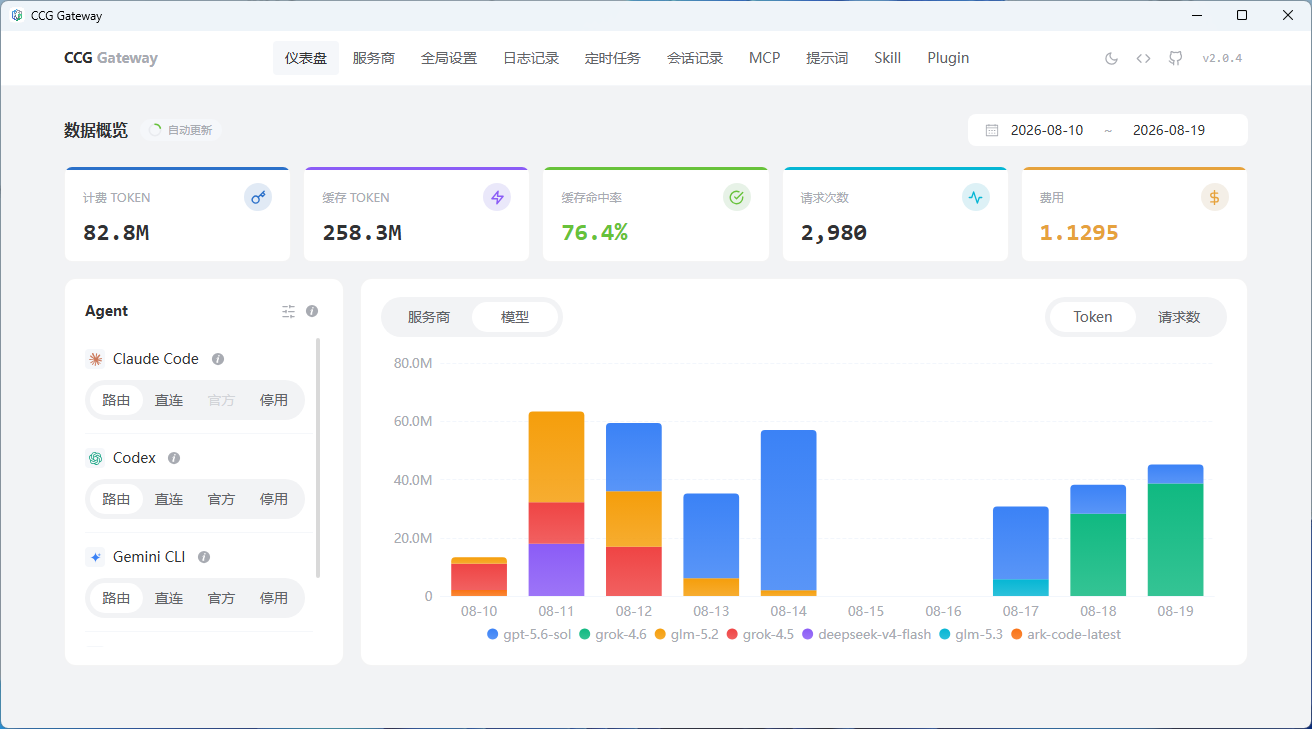
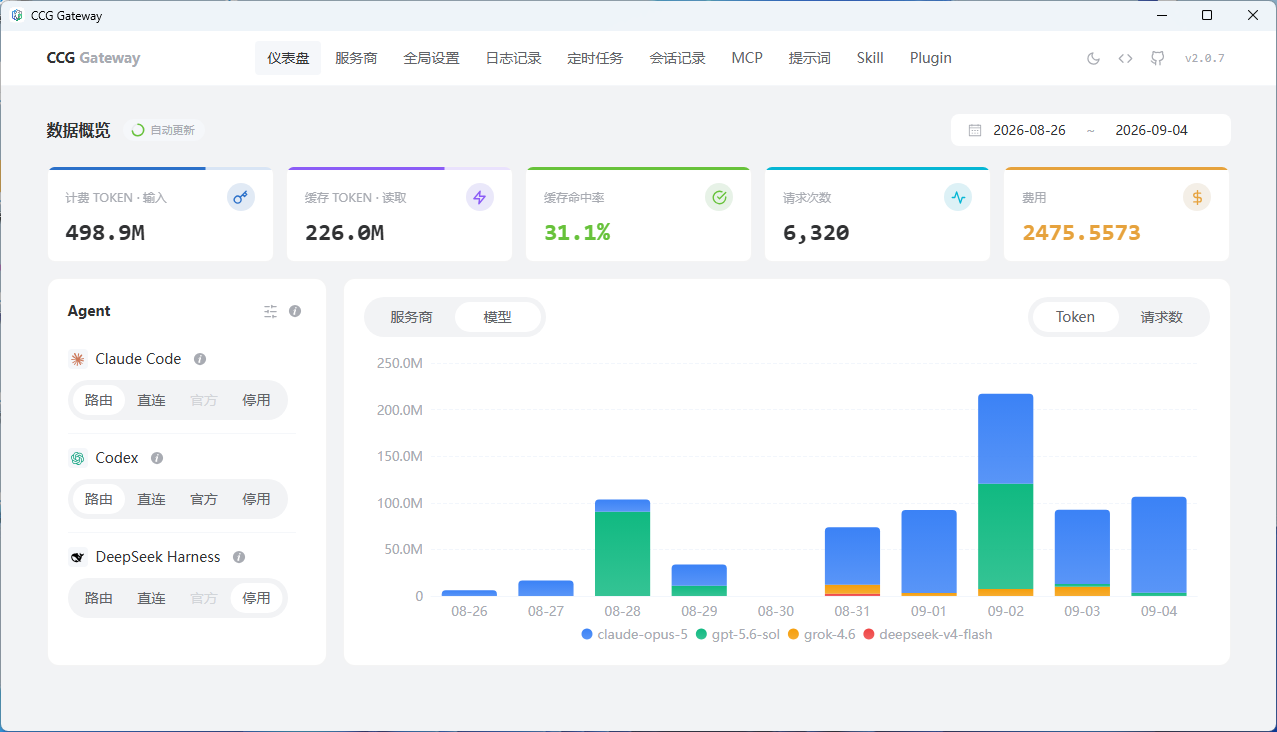
更新软件截图

diff --git a/README-en.md b/README-en.md
@@ -56,6 +56,8 @@ This project was initiated based on the author's actual needs to solve various p
   <img src="img/8.png" width="48%" />
   <img src="img/9.png" width="48%" />
   <img src="img/10.png" width="48%" />
+  <img src="img/11.png" width="48%" />
+  <img src="img/12.png" width="48%" />
 </div>
 
 ---
@@ -258,4 +260,3 @@ Thanks to the contributors of the following open-source projects:
 <div align="center">
 <strong>If this project is helpful to you, please give it a ⭐ Star!</strong>
 </div>
-

diff --git a/README.md b/README.md
@@ -56,7 +56,10 @@ CCG Gateway 是一款面向 Claude Code、Codex、Gemini CLI、OpenCode、Kimi C
   <img src="img/8.png" width="48%" />
   <img src="img/9.png" width="48%" />
   <img src="img/10.png" width="48%" />
+  <img src="img/11.png" width="48%" />
+  <img src="img/12.png" width="48%" />
 </div>
+
 
 ---
 
